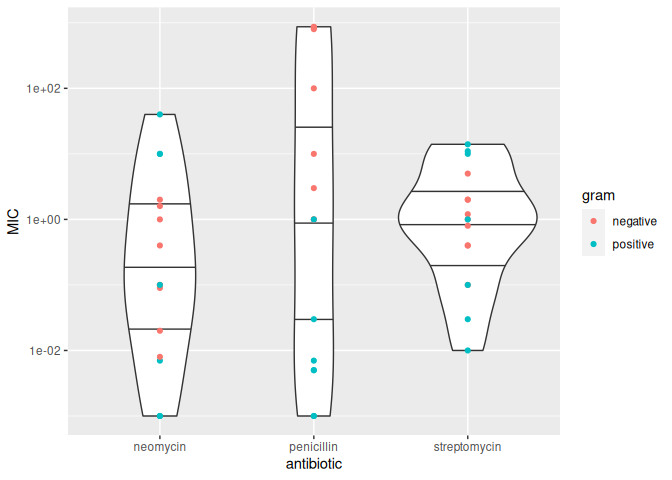
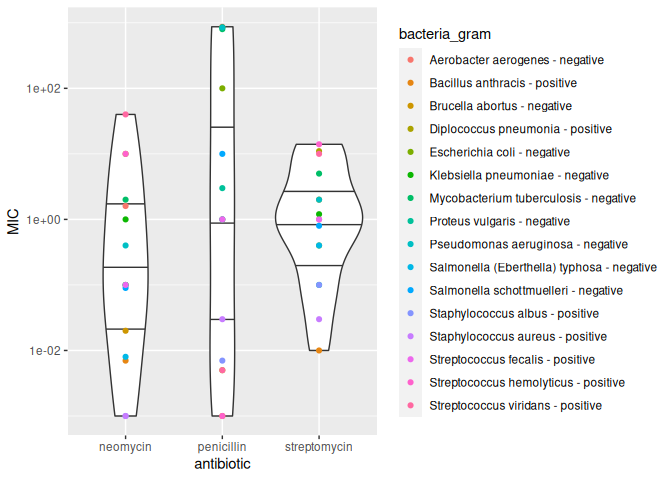
Revise c05

diff --git a/challenges/c05-antibiotics-assignment.md b/challenges/c05-antibiotics-assignment.md
@@ -68,7 +68,19 @@ library(tidyverse)
 
 ``` r
 library(ggrepel)
+library(scales)
 ```
+
+    ## 
+    ## Attaching package: 'scales'
+    ## 
+    ## The following object is masked from 'package:purrr':
+    ## 
+    ##     discard
+    ## 
+    ## The following object is masked from 'package:readr':
+    ## 
+    ##     col_factor
 
 *Background*: The data\[1\] we study in this challenge report the
 [*minimum inhibitory
@@ -159,9 +171,12 @@ df_antibiotics %>%
     values_to = "MIC",
     cols = ends_with("in")
   ) %>% 
+  mutate(
+    bacteria_gram = paste(bacteria, "-", gram)
+  ) %>% 
   ggplot(aes(x = antibiotic, y = MIC)) +
   geom_violin(draw_quantiles = c(0.25, 0.5, 0.75)) + 
-  geom_point(aes(color = gram)) +
+  geom_point(aes(color = bacteria_gram)) +
   scale_y_continuous(trans='log10')
 ```
 
@@ -177,15 +192,28 @@ Note that your visual must be *qualitatively different* from *all* of
 your other visuals.
 
 ``` r
+log_tenth <- trans_new(
+  name = "log10_0.1",
+  transform = (\(x) 1 + log10(x)),
+  inverse = (\(x) 10 ^ (x - 1)),
+  log_breaks(base = 10),
+  domain = c(1e-100, Inf)
+)
+```
+
+``` r
 df_antibiotics %>% 
   pivot_longer(
     names_to = "antibiotic",
     values_to = "MIC",
     cols = ends_with("in")
   ) %>% 
-  ggplot(aes(x = bacteria, y = MIC, fill = gram)) +
-  geom_col(aes(), position = "stack") +
-  scale_y_continuous(trans='log10') +
+  mutate(
+    bacteria_gram = paste(bacteria, "-", gram)
+  ) %>% 
+  ggplot(aes(x = bacteria_gram, y = MIC)) +
+  geom_col(position = "stack") +
+  scale_y_continuous(trans=log_tenth) +
   coord_flip() +
   facet_wrap(~antibiotic)
 ```
@@ -203,8 +231,9 @@ your other visuals.
 
 ``` r
 df_antibiotics %>% 
-  ggplot(aes(x = neomycin, y = streptomycin)) +
+  ggplot(aes(x = neomycin, y = streptomycin, label = bacteria)) +
   geom_point() +
+  geom_text_repel() +
   scale_x_continuous(trans='log10') +
   scale_y_continuous(trans='log10')
 ```
@@ -232,6 +261,7 @@ df_antibiotics %>%
   slice(1) %>% 
   ggplot(aes(x = bacteria, y = MIC, fill = antibiotic)) +
   geom_col() +
+  scale_y_continuous(trans=log_tenth) +
   coord_flip()
 ```
 
@@ -253,10 +283,13 @@ df_antibiotics %>%
     values_to = "MIC",
     cols = ends_with("in")
   ) %>% 
+  mutate(
+    bacteria_gram = paste(bacteria, "-", gram)
+  ) %>% 
   arrange(MIC) %>% 
   group_by(bacteria) %>% 
   slice(1) %>% 
-  ggplot(aes(x = antibiotic, fill = gram)) +
+  ggplot(aes(x = antibiotic, fill = bacteria_gram)) +
   geom_bar()
 ```
 
@@ -309,9 +342,10 @@ and in 1984 *Streptococcus fecalis* was renamed *Enterococcus fecalis*
 *Observations*
 
 - What is your response to the question above?
-  - This is likely because Streptococcus pneumoniae has a very high MIC
-    with Streptomycin (on the order of 10^1), a quality shared by most
-    Streptococcus bacteria.
+  - Streptococcus pneumoniae has a very high MIC with Streptomycin (on
+    the order of 10^1), a quality shared by most Streptococcus bacteria.
+  - This high MIC value may be indicative of Streptococcus pneumoniae’s
+    similarity to other Streptococcus bacteria
 - Which of your visuals above (1 through 5) is **most effective** at
   helping to answer this question?
   - Visual 2 was most helpful.
